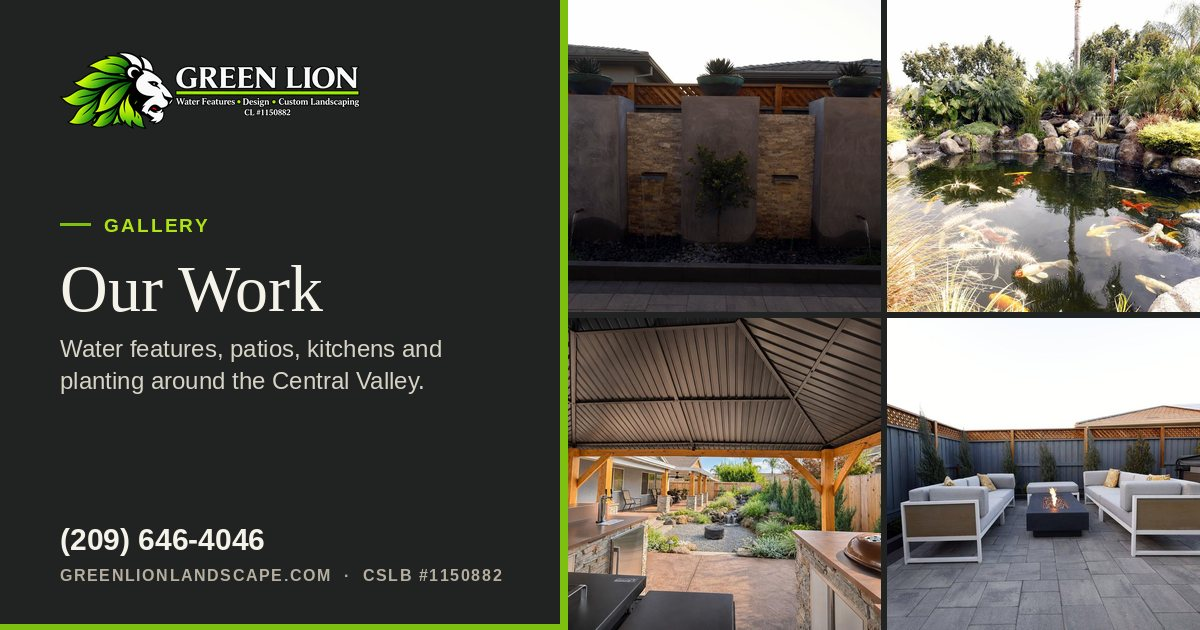
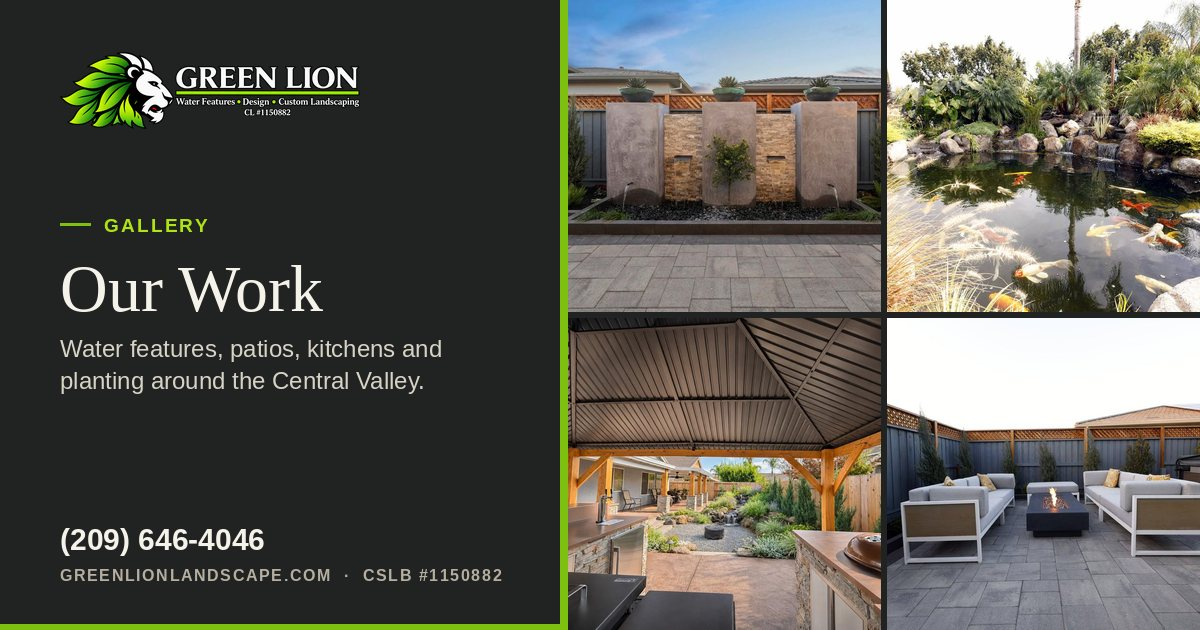
Use the brighter photo of the three-column water wall
The owner supplied a brighter photo of the three-column stucco and
ledgestone water wall. It replaces img/wf-three-column-wall.jpg
(now 1400 x 933) everywhere it shows: the home showcase and hero
gallery, Lisa's article, the Gallery page, the Tracy and Turlock
pages, and the Gallery link preview (regenerated).

Claude-Session: https://claude.ai/code/session_01EEqr6CuKGd9bWy7rRPRsUs

Changed region(s): [[0.4625, 0.0, 0.74, 0.5127]]

diff --git a/assets/site.js b/assets/site.js
@@ -189,7 +189,7 @@
   /* ---------- Gallery ---------- */
   const GAL_CATS = [['all', 'All'], ['water', 'Water features'], ['pavers', 'Patios & pavers'], ['kitchens', 'Kitchens & pavilions'], ['fire', 'Fire & lighting'], ['wellness', 'Saunas & hot tubs'], ['planting', 'Planting & turf'], ['3d', '3D design vs built']];
   const GAL_ALIAS = { landscaping: 'planting', planting: 'planting', water: 'water', pavers: 'pavers', retaining: 'pavers', kitchens: 'kitchens', pergolas: 'kitchens', fire: 'fire', sauna: 'wellness', turf: 'planting', highlights: 'all', fencing: 'all', all: 'all', kitchens: 'kitchens', wellness: 'wellness', '3d': '3d' };
-  const gallery = [{"img":"wf-creek-firebowl","cap":"Fire Bowl Creek","cats":["water","fire"],"project":"creek","w":1050,"h":1400},{"img":"wf-creek-falls","cap":"Lavender Creek","cats":["water","planting"],"project":"creek","w":1050,"h":1400},{"img":"wf-waterwall-day","cap":"Moonlit Water Wall","cats":["water"],"project":"wall","w":1400,"h":933},{"img":"wf-koi","cap":"Palm Koi Pond","cats":["water"],"project":"koi","w":1400,"h":934},{"img":"wf-three-column-wall","cap":"Three-Column Water Wall","cats":["water"],"project":"well","w":1400,"h":866},{"img":"lisa-waterfall","cap":"Waterfall and Pebble Stream","cats":["water","planting"],"project":null,"w":960,"h":1280},{"img":"pj-creek-1","cap":"Gravel Fire-Bowl Court","cats":["fire","pavers"],"project":"creek","w":1000,"h":750},{"img":"svc-pavilion","cap":"Timber Pavilion and Outdoor Kitchen","cats":["kitchens"],"project":"creek","w":1000,"h":750},{"img":"wf-boulder-falls","cap":"Boulder Falls","cats":["water"],"project":null,"w":1400,"h":1050},{"img":"pj-well-1","cap":"Hot Tub on a Composite Deck","cats":["wellness"],"project":"well","w":1000,"h":667},{"img":"pj-koi-1","cap":"Koi Pond with Boulder Waterfalls","cats":["water"],"project":"koi","w":1000,"h":667},{"img":"svc-fire-day","cap":"Fire Table Lounge","cats":["fire","pavers"],"project":"well","w":1200,"h":800},{"img":"pj-hidden-1","cap":"Outdoor Kitchen and Bar","cats":["kitchens"],"project":"hidden","w":1000,"h":667},{"img":"wf-pond-garden","cap":"Garden Pond","cats":["water","planting"],"project":null,"w":1400,"h":1050},{"img":"pj-wall-1","cap":"Water Wall Garden","cats":["water"],"project":"wall","w":1000,"h":667},{"img":"svc-wellness-day","cap":"Cube Sauna","cats":["wellness"],"project":"well","w":1200,"h":800},{"img":"pj-luxe-1","cap":"Louvered Pergola Lounge","cats":["kitchens","pavers"],"project":"luxe","w":1000,"h":667},{"img":"wf-lantern-falls","cap":"Lantern Falls","cats":["water"],"project":null,"w":1200,"h":900},{"img":"pj-creek-2","cap":"Pavilion Bar and Kitchen","cats":["kitchens"],"project":"creek","w":1000,"h":750},{"img":"svc-turf","cap":"Turf and Covered Patio","cats":["planting","pavers"],"project":null,"w":1000,"h":667},{"img":"wf-modern","cap":"Scupper Water Wall","cats":["water"],"project":"hidden","w":1400,"h":934},{"img":"pj-hidden-2","cap":"Cedar Barrel Sauna","cats":["wellness"],"project":"hidden","w":1000,"h":667},{"img":"pj-creek-3","cap":"Pondless Stream and Waterfalls","cats":["water","planting"],"project":"creek","w":750,"h":1000},{"img":"svc-pavers","cap":"Paver Patio","cats":["pavers"],"project":"luxe","w":1000,"h":667},{"img":"pj-wall-wide","cap":"Water Wall Garden","cats":["water"],"project":"wall","w":1200,"h":800},{"img":"svc-kitchen","cap":"Kitchen Under a Louvered Pergola","cats":["kitchens"],"project":"hidden","w":1000,"h":667},{"img":"wf-stream","cap":"Garden Stream","cats":["water","planting"],"project":null,"w":1050,"h":1400},{"img":"pj-well-2","cap":"Porcelain Paver Lounge","cats":["pavers","fire"],"project":"well","w":1000,"h":667},{"img":"svc-walls","cap":"Seat Wall and Pavers","cats":["pavers","planting"],"project":null,"w":1000,"h":750},{"img":"svc-retaining","cap":"Block Retaining Wall and Raised Bed","cats":["pavers","planting"],"project":"hidden","w":1200,"h":800},{"img":"pj-creek-4","cap":"Stone-Veneer Bar with a Beer Tap","cats":["kitchens"],"project":"creek","w":750,"h":1000},{"img":"pj-koi-2","cap":"Koi Pond Shoreline","cats":["water","planting"],"project":"koi","w":1000,"h":667},{"img":"svc-lighting-closeup","cap":"Spotlight Among Yucca","cats":["fire","planting"],"project":null,"w":1200,"h":800},{"img":"pj-luxe-2","cap":"Pergola Dining Patio","cats":["kitchens","pavers"],"project":"luxe","w":1000,"h":667},{"img":"pt-pavers","cap":"Paver Walkway","cats":["pavers"],"project":null,"w":1000,"h":667},{"img":"pj-creek-5","cap":"Flagstone Path","cats":["pavers","planting"],"project":"creek","w":750,"h":1000},{"img":"learn-agave","cap":"Agave Urn by the Water Wall","cats":["planting"],"project":"wall","w":1000,"h":667},{"img":"learn-citrus","cap":"Citrus and Ferns","cats":["planting"],"project":"wall","w":1000,"h":667},{"img":"learn-tropical","cap":"Tropical Planting by the Pond","cats":["planting","water"],"project":"koi","w":1000,"h":667},{"img":"pj-creek-6","cap":"Tiered Fountain","cats":["water","planting"],"project":"creek","w":750,"h":1000},{"img":"learn-mossrock","cap":"Moss Rock and Grasses","cats":["planting"],"project":null,"w":1000,"h":667},{"img":"learn-sconce","cap":"Wall Sconces on a Water Wall","cats":["fire","water"],"project":"wall","w":1000,"h":667},{"img":"learn-bougainvillea","cap":"Bougainvillea Trellis","cats":["planting"],"project":null,"w":1000,"h":667},{"img":"learn-foxtail","cap":"Foxtail Fern and Boulders","cats":["planting"],"project":null,"w":750,"h":1000},{"img":"3d-dvb-day-1","cap":"The Side Yard: 3D Design and Built","cats":["3d"],"project":null,"w":720,"h":900},{"img":"3d-dvb-day-2","cap":"The Water Wall: 3D Design and Built","cats":["3d"],"project":null,"w":720,"h":900},{"img":"3d-dvb-day-3","cap":"The Fire Lounge: 3D Design and Built","cats":["3d"],"project":null,"w":720,"h":900},{"img":"3d-dvb-day-4","cap":"The Spa Deck: 3D Design and Built","cats":["3d"],"project":null,"w":720,"h":900},{"img":"3d-dvb-day-5","cap":"The Sauna: 3D Design and Built","cats":["3d"],"project":null,"w":720,"h":900},{"img":"3d-dvb-day-6","cap":"The Covered Patio: 3D Design and Built","cats":["3d"],"project":null,"w":720,"h":900},{"img":"3d-dvb-day-7","cap":"The Turf Yard: 3D Design and Built","cats":["3d"],"project":null,"w":720,"h":900}];
+  const gallery = [{"img":"wf-creek-firebowl","cap":"Fire Bowl Creek","cats":["water","fire"],"project":"creek","w":1050,"h":1400},{"img":"wf-creek-falls","cap":"Lavender Creek","cats":["water","planting"],"project":"creek","w":1050,"h":1400},{"img":"wf-waterwall-day","cap":"Moonlit Water Wall","cats":["water"],"project":"wall","w":1400,"h":933},{"img":"wf-koi","cap":"Palm Koi Pond","cats":["water"],"project":"koi","w":1400,"h":934},{"img":"wf-three-column-wall","cap":"Three-Column Water Wall","cats":["water"],"project":"well","w":1400,"h":933},{"img":"lisa-waterfall","cap":"Waterfall and Pebble Stream","cats":["water","planting"],"project":null,"w":960,"h":1280},{"img":"pj-creek-1","cap":"Gravel Fire-Bowl Court","cats":["fire","pavers"],"project":"creek","w":1000,"h":750},{"img":"svc-pavilion","cap":"Timber Pavilion and Outdoor Kitchen","cats":["kitchens"],"project":"creek","w":1000,"h":750},{"img":"wf-boulder-falls","cap":"Boulder Falls","cats":["water"],"project":null,"w":1400,"h":1050},{"img":"pj-well-1","cap":"Hot Tub on a Composite Deck","cats":["wellness"],"project":"well","w":1000,"h":667},{"img":"pj-koi-1","cap":"Koi Pond with Boulder Waterfalls","cats":["water"],"project":"koi","w":1000,"h":667},{"img":"svc-fire-day","cap":"Fire Table Lounge","cats":["fire","pavers"],"project":"well","w":1200,"h":800},{"img":"pj-hidden-1","cap":"Outdoor Kitchen and Bar","cats":["kitchens"],"project":"hidden","w":1000,"h":667},{"img":"wf-pond-garden","cap":"Garden Pond","cats":["water","planting"],"project":null,"w":1400,"h":1050},{"img":"pj-wall-1","cap":"Water Wall Garden","cats":["water"],"project":"wall","w":1000,"h":667},{"img":"svc-wellness-day","cap":"Cube Sauna","cats":["wellness"],"project":"well","w":1200,"h":800},{"img":"pj-luxe-1","cap":"Louvered Pergola Lounge","cats":["kitchens","pavers"],"project":"luxe","w":1000,"h":667},{"img":"wf-lantern-falls","cap":"Lantern Falls","cats":["water"],"project":null,"w":1200,"h":900},{"img":"pj-creek-2","cap":"Pavilion Bar and Kitchen","cats":["kitchens"],"project":"creek","w":1000,"h":750},{"img":"svc-turf","cap":"Turf and Covered Patio","cats":["planting","pavers"],"project":null,"w":1000,"h":667},{"img":"wf-modern","cap":"Scupper Water Wall","cats":["water"],"project":"hidden","w":1400,"h":934},{"img":"pj-hidden-2","cap":"Cedar Barrel Sauna","cats":["wellness"],"project":"hidden","w":1000,"h":667},{"img":"pj-creek-3","cap":"Pondless Stream and Waterfalls","cats":["water","planting"],"project":"creek","w":750,"h":1000},{"img":"svc-pavers","cap":"Paver Patio","cats":["pavers"],"project":"luxe","w":1000,"h":667},{"img":"pj-wall-wide","cap":"Water Wall Garden","cats":["water"],"project":"wall","w":1200,"h":800},{"img":"svc-kitchen","cap":"Kitchen Under a Louvered Pergola","cats":["kitchens"],"project":"hidden","w":1000,"h":667},{"img":"wf-stream","cap":"Garden Stream","cats":["water","planting"],"project":null,"w":1050,"h":1400},{"img":"pj-well-2","cap":"Porcelain Paver Lounge","cats":["pavers","fire"],"project":"well","w":1000,"h":667},{"img":"svc-walls","cap":"Seat Wall and Pavers","cats":["pavers","planting"],"project":null,"w":1000,"h":750},{"img":"svc-retaining","cap":"Block Retaining Wall and Raised Bed","cats":["pavers","planting"],"project":"hidden","w":1200,"h":800},{"img":"pj-creek-4","cap":"Stone-Veneer Bar with a Beer Tap","cats":["kitchens"],"project":"creek","w":750,"h":1000},{"img":"pj-koi-2","cap":"Koi Pond Shoreline","cats":["water","planting"],"project":"koi","w":1000,"h":667},{"img":"svc-lighting-closeup","cap":"Spotlight Among Yucca","cats":["fire","planting"],"project":null,"w":1200,"h":800},{"img":"pj-luxe-2","cap":"Pergola Dining Patio","cats":["kitchens","pavers"],"project":"luxe","w":1000,"h":667},{"img":"pt-pavers","cap":"Paver Walkway","cats":["pavers"],"project":null,"w":1000,"h":667},{"img":"pj-creek-5","cap":"Flagstone Path","cats":["pavers","planting"],"project":"creek","w":750,"h":1000},{"img":"learn-agave","cap":"Agave Urn by the Water Wall","cats":["planting"],"project":"wall","w":1000,"h":667},{"img":"learn-citrus","cap":"Citrus and Ferns","cats":["planting"],"project":"wall","w":1000,"h":667},{"img":"learn-tropical","cap":"Tropical Planting by the Pond","cats":["planting","water"],"project":"koi","w":1000,"h":667},{"img":"pj-creek-6","cap":"Tiered Fountain","cats":["water","planting"],"project":"creek","w":750,"h":1000},{"img":"learn-mossrock","cap":"Moss Rock and Grasses","cats":["planting"],"project":null,"w":1000,"h":667},{"img":"learn-sconce","cap":"Wall Sconces on a Water Wall","cats":["fire","water"],"project":"wall","w":1000,"h":667},{"img":"learn-bougainvillea","cap":"Bougainvillea Trellis","cats":["planting"],"project":null,"w":1000,"h":667},{"img":"learn-foxtail","cap":"Foxtail Fern and Boulders","cats":["planting"],"project":null,"w":750,"h":1000},{"img":"3d-dvb-day-1","cap":"The Side Yard: 3D Design and Built","cats":["3d"],"project":null,"w":720,"h":900},{"img":"3d-dvb-day-2","cap":"The Water Wall: 3D Design and Built","cats":["3d"],"project":null,"w":720,"h":900},{"img":"3d-dvb-day-3","cap":"The Fire Lounge: 3D Design and Built","cats":["3d"],"project":null,"w":720,"h":900},{"img":"3d-dvb-day-4","cap":"The Spa Deck: 3D Design and Built","cats":["3d"],"project":null,"w":720,"h":900},{"img":"3d-dvb-day-5","cap":"The Sauna: 3D Design and Built","cats":["3d"],"project":null,"w":720,"h":900},{"img":"3d-dvb-day-6","cap":"The Covered Patio: 3D Design and Built","cats":["3d"],"project":null,"w":720,"h":900},{"img":"3d-dvb-day-7","cap":"The Turf Yard: 3D Design and Built","cats":["3d"],"project":null,"w":720,"h":900}];
   let galFilter = 'all';
   function setGalleryFilter(f) { galFilter = GAL_CATS.some(([k]) => k === f) ? f : 'all'; renderGallery(); }
   function renderGallery() {

diff --git a/water-features/turlock/index.html b/water-features/turlock/index.html
@@ -111,7 +111,7 @@
         <div class="cl-head"><p class="eyebrow">Recent work</p><h2 id="cl-gal-h">Both Styles, Built by Green Lion</h2><p class="note">Green Lion projects from around the Central Valley. Tap a photo to see it larger.</p></div>
         <div class="cl-gal-grid">
           <button type="button" class="gal-item" data-photo="wf-koi"><img src="/img/wf-koi.jpg" alt="Koi pond with boulder falls under palms" width="1400" height="934" loading="lazy"><span>Palm Koi Pond</span></button>
-          <button type="button" class="gal-item" data-photo="wf-three-column-wall"><img src="/img/wf-three-column-wall.jpg" alt="Three-column stucco and ledgestone water wall" width="1400" height="866" loading="lazy"><span>Ledgestone Spill Wall</span></button>
+          <button type="button" class="gal-item" data-photo="wf-three-column-wall"><img src="/img/wf-three-column-wall.jpg" alt="Three-column stucco and ledgestone water wall" width="1400" height="933" loading="lazy"><span>Ledgestone Spill Wall</span></button>
           <button type="button" class="gal-item" data-photo="wf-creek-falls"><img src="/img/wf-creek-falls.jpg" alt="Pondless stream between lavender and grasses" width="1050" height="1400" loading="lazy"><span>Lavender Creek</span></button>
           <button type="button" class="gal-item" data-photo="wf-modern"><img src="/img/wf-modern.jpg" alt="Porcelain water wall with stainless scuppers" width="1400" height="934" loading="lazy"><span>Scupper Water Wall</span></button>
           <button type="button" class="gal-item" data-photo="wf-lantern-falls"><img src="/img/wf-lantern-falls.jpg" alt="Boulder falls into a deep pond" width="1200" height="900" loading="lazy"><span>Lantern Falls</span></button>
@@ -209,6 +209,6 @@
 
 <dialog id="dlg" aria-labelledby="dlg-title"><div style="position:relative"><button class="dlg-close" type="button" id="dlg-close" aria-label="Close">✕</button><div id="dlg-content"></div></div></dialog>
 <div class="toast" id="toast" role="status" hidden></div>
-<script src="/assets/site.js?v=732c718474"></script>
+<script src="/assets/site.js?v=c7a611bd42"></script>
 </body>
 </html>

diff --git a/gallery/index.html b/gallery/index.html
@@ -13,7 +13,7 @@
 <meta property="og:title" content="Our Work | Green Lion Landscape">
 <meta property="og:description" content="Real Green Lion water features, patios, kitchens and planting around Modesto and the Central Valley.">
 <meta property="og:url" content="https://www.greenlionlandscape.com/gallery">
-<meta property="og:image" content="https://www.greenlionlandscape.com/img/share/gallery.jpg?v=f4244e8556">
+<meta property="og:image" content="https://www.greenlionlandscape.com/img/share/gallery.jpg?v=57edac627f">
 <meta property="og:image:type" content="image/jpeg">
 <meta property="og:image:width" content="1200">
 <meta property="og:image:height" content="630">
@@ -22,7 +22,7 @@
 <meta name="twitter:card" content="summary_large_image">
 <meta name="twitter:title" content="Our Work | Green Lion Landscape">
 <meta name="twitter:description" content="Real Green Lion water features, patios, kitchens and planting around Modesto and the Central Valley.">
-<meta name="twitter:image" content="https://www.greenlionlandscape.com/img/share/gallery.jpg?v=f4244e8556">
+<meta name="twitter:image" content="https://www.greenlionlandscape.com/img/share/gallery.jpg?v=57edac627f">
 <meta name="twitter:image:alt" content="Our Work: Green Lion Landscape">
 <meta name="theme-color" content="#202321">
 <link rel="icon" href="/favicon.ico" sizes="48x48">
@@ -103,6 +103,6 @@
 
 <dialog id="dlg" aria-labelledby="dlg-title"><div style="position:relative"><button class="dlg-close" type="button" id="dlg-close" aria-label="Close">✕</button><div id="dlg-content"></div></div></dialog>
 <div class="toast" id="toast" role="status" hidden></div>
-<script src="/assets/site.js?v=732c718474"></script>
+<script src="/assets/site.js?v=c7a611bd42"></script>
 </body>
 </html>

diff --git a/src/pages/turlock.html b/src/pages/turlock.html
@@ -47,7 +47,7 @@
         <div class="cl-head"><p class="eyebrow">Recent work</p><h2 id="cl-gal-h">Both Styles, Built by Green Lion</h2><p class="note">Green Lion projects from around the Central Valley. Tap a photo to see it larger.</p></div>
         <div class="cl-gal-grid">
           <button type="button" class="gal-item" data-photo="wf-koi"><img src="/img/wf-koi.jpg" alt="Koi pond with boulder falls under palms" width="1400" height="934" loading="lazy"><span>Palm Koi Pond</span></button>
-          <button type="button" class="gal-item" data-photo="wf-three-column-wall"><img src="/img/wf-three-column-wall.jpg" alt="Three-column stucco and ledgestone water wall" width="1400" height="866" loading="lazy"><span>Ledgestone Spill Wall</span></button>
+          <button type="button" class="gal-item" data-photo="wf-three-column-wall"><img src="/img/wf-three-column-wall.jpg" alt="Three-column stucco and ledgestone water wall" width="1400" height="933" loading="lazy"><span>Ledgestone Spill Wall</span></button>
           <button type="button" class="gal-item" data-photo="wf-creek-falls"><img src="/img/wf-creek-falls.jpg" alt="Pondless stream between lavender and grasses" width="1050" height="1400" loading="lazy"><span>Lavender Creek</span></button>
           <button type="button" class="gal-item" data-photo="wf-modern"><img src="/img/wf-modern.jpg" alt="Porcelain water wall with stainless scuppers" width="1400" height="934" loading="lazy"><span>Scupper Water Wall</span></button>
           <button type="button" class="gal-item" data-photo="wf-lantern-falls"><img src="/img/wf-lantern-falls.jpg" alt="Boulder falls into a deep pond" width="1200" height="900" loading="lazy"><span>Lantern Falls</span></button>

diff --git a/water-features/tracy/index.html b/water-features/tracy/index.html
@@ -85,7 +85,7 @@
         <div class="ct-head"><p class="eyebrow">What we build</p><h2 id="ct-styles-h">Modern Water, Made for Tracy Yards</h2></div>
         <div class="ct-style-grid">
           <figure class="ct-style">
-            <button type="button" class="ct-img" data-photo="wf-three-column-wall"><img src="/img/wf-three-column-wall.jpg" alt="Three stucco columns with ledgestone panels and thin spillways into a long basin" width="1400" height="866" loading="lazy"></button>
+            <button type="button" class="ct-img" data-photo="wf-three-column-wall"><img src="/img/wf-three-column-wall.jpg" alt="Three stucco columns with ledgestone panels and thin spillways into a long basin" width="1400" height="933" loading="lazy"></button>
             <figcaption><b>Water Walls</b>Stucco, ledgestone or porcelain walls with a sheer spill into a stone or concrete basin. They fit along a fence line or as the focal point of a patio.</figcaption>
           </figure>
           <figure class="ct-style">
@@ -208,6 +208,6 @@
 
 <dialog id="dlg" aria-labelledby="dlg-title"><div style="position:relative"><button class="dlg-close" type="button" id="dlg-close" aria-label="Close">✕</button><div id="dlg-content"></div></div></dialog>
 <div class="toast" id="toast" role="status" hidden></div>
-<script src="/assets/site.js?v=732c718474"></script>
+<script src="/assets/site.js?v=c7a611bd42"></script>
 </body>
 </html>

diff --git a/src/pages/tracy.html b/src/pages/tracy.html
@@ -21,7 +21,7 @@
         <div class="ct-head"><p class="eyebrow">What we build</p><h2 id="ct-styles-h">Modern Water, Made for Tracy Yards</h2></div>
         <div class="ct-style-grid">
           <figure class="ct-style">
-            <button type="button" class="ct-img" data-photo="wf-three-column-wall"><img src="/img/wf-three-column-wall.jpg" alt="Three stucco columns with ledgestone panels and thin spillways into a long basin" width="1400" height="866" loading="lazy"></button>
+            <button type="button" class="ct-img" data-photo="wf-three-column-wall"><img src="/img/wf-three-column-wall.jpg" alt="Three stucco columns with ledgestone panels and thin spillways into a long basin" width="1400" height="933" loading="lazy"></button>
             <figcaption><b>Water Walls</b>Stucco, ledgestone or porcelain walls with a sheer spill into a stone or concrete basin. They fit along a fence line or as the focal point of a patio.</figcaption>
           </figure>
           <figure class="ct-style">

diff --git a/index.html b/index.html
@@ -225,6 +225,6 @@
 
 <dialog id="dlg" aria-labelledby="dlg-title"><div style="position:relative"><button class="dlg-close" type="button" id="dlg-close" aria-label="Close">✕</button><div id="dlg-content"></div></div></dialog>
 <div class="toast" id="toast" role="status" hidden></div>
-<script src="/assets/site.js?v=732c718474"></script>
+<script src="/assets/site.js?v=c7a611bd42"></script>
 </body>
 </html>

diff --git a/services/index.html b/services/index.html
@@ -143,6 +143,6 @@
 
 <dialog id="dlg" aria-labelledby="dlg-title"><div style="position:relative"><button class="dlg-close" type="button" id="dlg-close" aria-label="Close">✕</button><div id="dlg-content"></div></div></dialog>
 <div class="toast" id="toast" role="status" hidden></div>
-<script src="/assets/site.js?v=732c718474"></script>
+<script src="/assets/site.js?v=c7a611bd42"></script>
 </body>
 </html>

diff --git a/water-features/index.html b/water-features/index.html
@@ -127,6 +127,6 @@
 
 <dialog id="dlg" aria-labelledby="dlg-title"><div style="position:relative"><button class="dlg-close" type="button" id="dlg-close" aria-label="Close">✕</button><div id="dlg-content"></div></div></dialog>
 <div class="toast" id="toast" role="status" hidden></div>
-<script src="/assets/site.js?v=732c718474"></script>
+<script src="/assets/site.js?v=c7a611bd42"></script>
 </body>
 </html>

diff --git a/water-features/modesto/index.html b/water-features/modesto/index.html
@@ -234,6 +234,6 @@
 
 <dialog id="dlg" aria-labelledby="dlg-title"><div style="position:relative"><button class="dlg-close" type="button" id="dlg-close" aria-label="Close">✕</button><div id="dlg-content"></div></div></dialog>
 <div class="toast" id="toast" role="status" hidden></div>
-<script src="/assets/site.js?v=732c718474"></script>
+<script src="/assets/site.js?v=c7a611bd42"></script>
 </body>
 </html>

diff --git a/docs/CONTENT_NOTES.md b/docs/CONTENT_NOTES.md
@@ -12,6 +12,10 @@ What in the prototype is real Green Lion content, what is sample data, what stil
 - Lisa's Design Notebook article **"Water Features Are Taking Over"** was rewritten on Nov 20, 2026 at the owner's request. It covers nature, comfort and peace in the backyard, and Green Lion's passion for building these escapes. It's written in the team's voice, but it runs under Lisa Taylor's byline, so **Lisa should read it**. Her earlier article, approved on Nov 18, is in git history (commit 3b626d6).
 - All photos are Green Lion projects. Nothing is AI-generated.
 
+## Brighter three-column water wall (Nov 21, 2026)
+
+The owner sent a brighter photo of the three-column stucco and ledgestone water wall (blue sky, lit stone). It replaces `img/wf-three-column-wall.jpg` everywhere that file is used: the home showcase tile and hero gallery (Ledgestone Spill Wall), Lisa's article gallery, the Gallery page, the Tracy and Turlock pages and the Gallery link preview. It is 1400 × 933. The 3D comparison slide `3d-dvb-day-2` shows the same wall from a separate, already bright photo and was left as it is.
+
 ## Growth Studio credit (Nov 21, 2026)
 
 At the owner's request, the 3D disclosure line now credits the in-house studio: *Real Green Lion project. 3D design from our own Green Lion Growth Studio; photo motion, voice and music made with AI tools.* It sits beside the Green Lion Growth Studio wordmark (`img/growth-studio-wordmark.svg`, the stacked on-Charcoal version) under the home 3D video, in every 3D video dialog and on the 3D photos in the Gallery. The wordmark comes from the Growth-Studio repo, `brand/wordmark/` at commit d9cf43f, where the README sets its rules: Charcoal or Warm white only, never over photos, the stacked version below about 40 px tall. The Green Lion Landscape logo stays the main site logo.
@@ -78,7 +82,7 @@ At the owner's request the site shows no night or dusk photos. Each one was swap
 | Water Wall Garden, wide at dusk | The same yard, wide, by day (`pj-wall-wide`) |
 | Lit agave urn | The same urn by day (`learn-agave`) |
 | Lantern Falls with underwater lights | The same boulder falls by day (`wf-lantern-falls`, Inspirational Waterscapes IMG_0174) |
-| Ledgestone Spill Wall at night | The same three-column wall by day (`wf-three-column-wall`, E9A9118) |
+| Ledgestone Spill Wall at night | The same three-column wall by day (`wf-three-column-wall`; since Nov 21, 2026 a brighter photo the owner supplied, replacing frame E9A9118) |
 | Gas fire lounge at night | The same lounge by day (`svc-fire-day`, E9A9130) |
 | Cube sauna at night | The same sauna by day (`svc-wellness-day`, E9A9142) |
 | Fire table and lighting at night | Removed; the daytime lounge is already in the Gallery |
